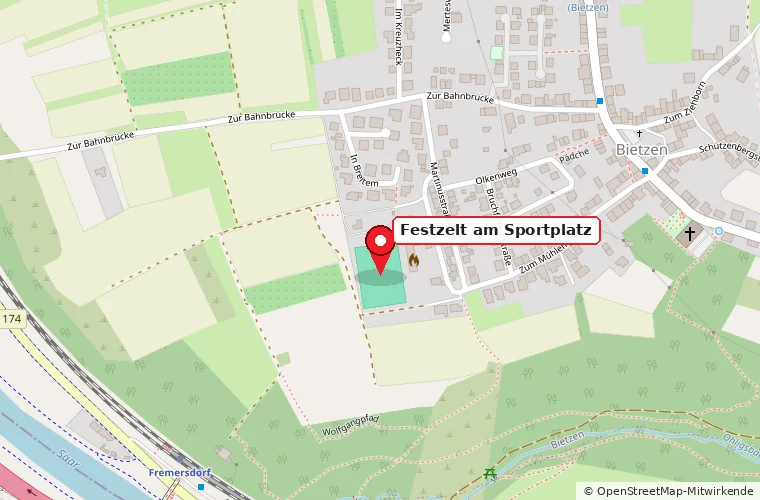
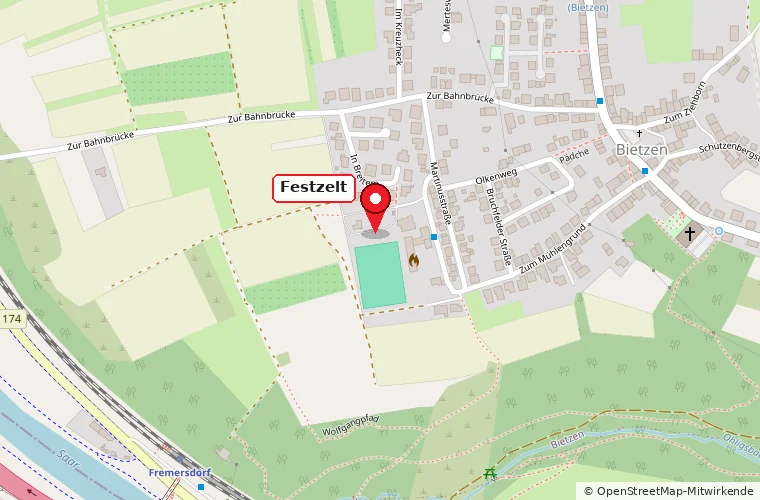
Anfahrt: Festzelt-Markierung oberhalb des Sportplatzes
Claude-Session: https://claude.ai/code/session_01PA4fx3M9SWxN1LajAk7gAZ

Changed region(s): [[0.3329, 0.33, 0.8171, 0.57]]

diff --git a/index.html b/index.html
@@ -213,10 +213,10 @@
             <li><strong>Bus &amp; Bahn:</strong> Infos folgen</li>
           </ul>
           <a class="btn btn--outline" target="_blank" rel="noopener"
-             href="https://www.openstreetmap.org/?mlat=49.41238&amp;mlon=6.65242#map=17/49.41238/6.65242">Auf der Karte öffnen</a>
+             href="https://www.openstreetmap.org/?mlat=49.41298&amp;mlon=6.65231#map=17/49.41298/6.65231">Auf der Karte öffnen</a>
         </div>
         <figure class="map">
-          <a href="https://www.openstreetmap.org/?mlat=49.41238&amp;mlon=6.65242#map=17/49.41238/6.65242" target="_blank" rel="noopener" aria-label="Lage des Festzelts auf OpenStreetMap öffnen">
+          <a href="https://www.openstreetmap.org/?mlat=49.41298&amp;mlon=6.65231#map=17/49.41298/6.65231" target="_blank" rel="noopener" aria-label="Lage des Festzelts auf OpenStreetMap öffnen">
             <img src="bilder/karte-anfahrt.webp" width="760" height="500" loading="lazy"
                  alt="Karte von Bietzen: Das Festzelt steht am Sportplatz an der Martinusstraße, am südwestlichen Ortsrand.">
           </a>
